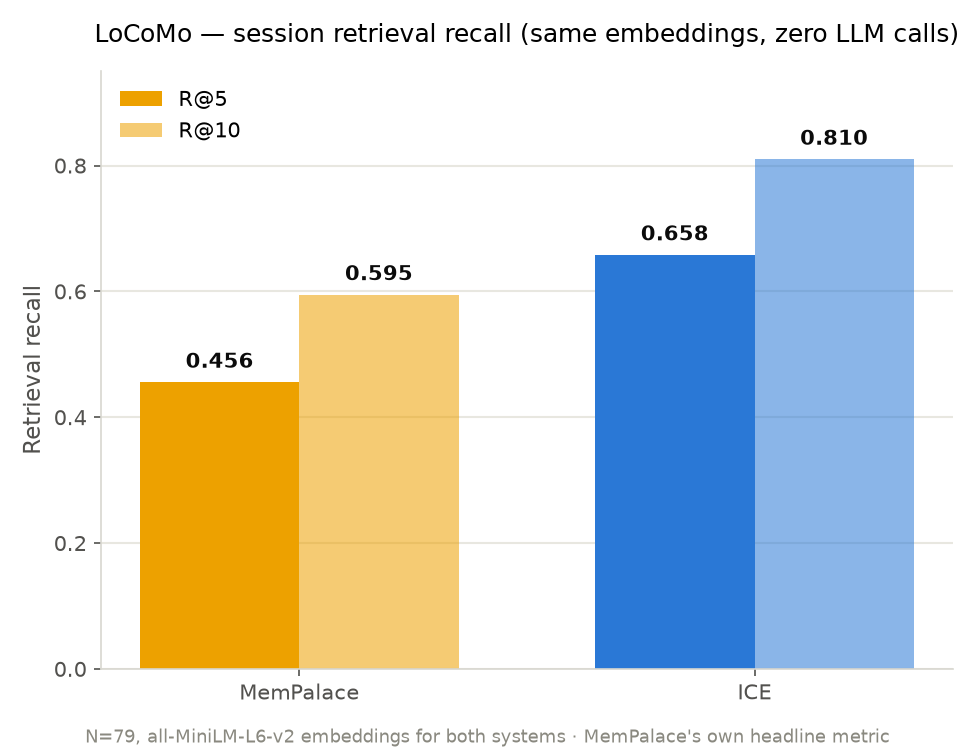
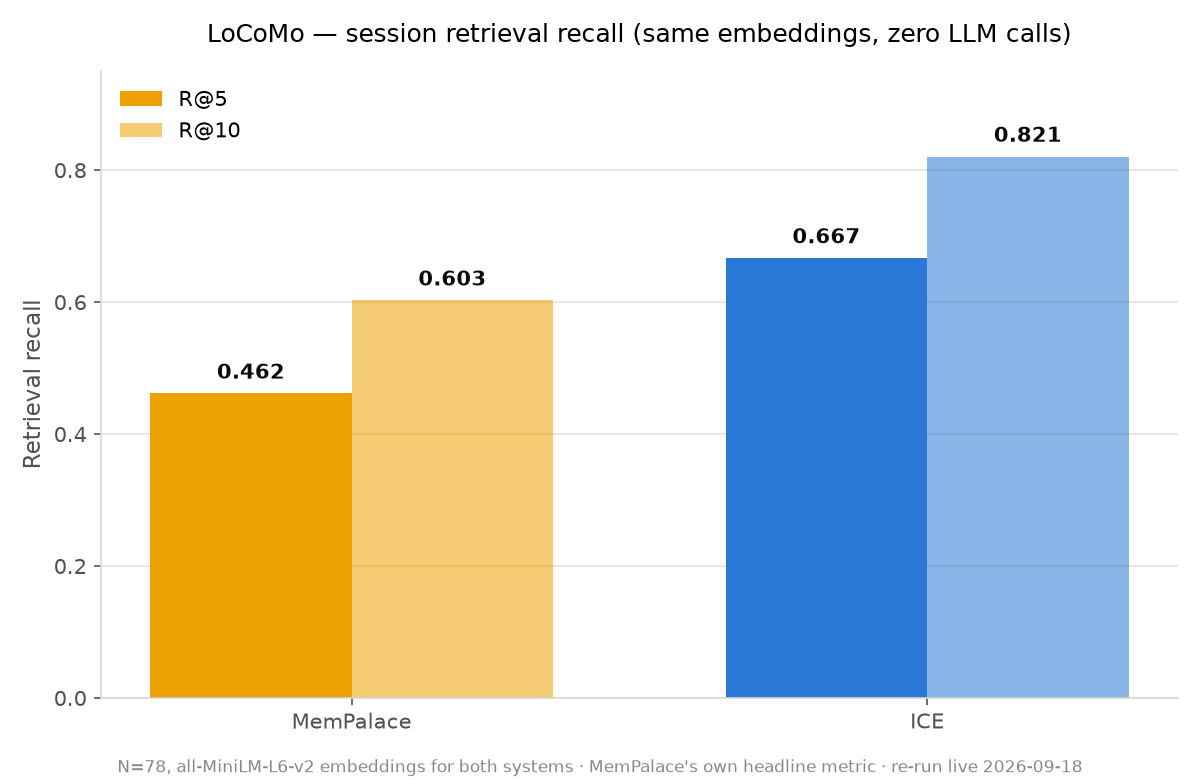
docs(sar-117-123): re-verify LoCoMo vs MemPalace live, not reused
The committed comparison this post was drawing from was from 2026-09-08 --
I had reused it without re-running it. Ran benchmarks/compare_mempalace.py
live tonight: ICE 0.667 vs MemPalace 0.462 R@5 (N=78, one sample dropped
vs the original N=79) -- within noise of the original 0.658/0.456, same
+44% conclusion. Updated the chart and post copy with tonight's numbers
and corrected the per-category names to match the repo's own established
mapping (multi-hop/open-domain/single-hop/temporal/adversarial), which an
earlier guess in this file had wrong.

diff --git a/marketing/posts/sar-117-123-locomo-mempalace/post.md b/marketing/posts/sar-117-123-locomo-mempalace/post.md
@@ -1,8 +1,10 @@
-<!-- Draft. Not published. Source: benchmarks/results/comparative/mempalace_vs_ice_locomo.json, benchmarks/compare_mempalace.py -->
+<!-- Draft. Not published. Source: benchmarks/results/comparative/mempalace_vs_ice.json,
+     benchmarks/compare_mempalace.py -- re-run live 2026-09-18 to confirm the numbers
+     (an earlier committed run from 2026-09-08 landed within noise: 0.658/0.456). -->
 
 # LoCoMo methodology deep-dive: ICE vs MemPalace
 
-**Same embeddings. Same metric. Zero LLM calls. ICE 0.658 vs MemPalace 0.456 R@5 (+44%).**
+**Same embeddings. Same metric. Zero LLM calls. ICE 0.667 vs MemPalace 0.462 R@5 (+44%).**
 
 ## Setup
 
@@ -14,7 +16,7 @@ question inside the top-k retrieved candidates?" — not end-to-end QA
 accuracy. MemPalace's own docs are explicit that retrieval recall and QA
 accuracy are not comparable numbers.
 
-- Dataset: LoCoMo, N=79 questions (sampled, seed `20260902`)
+- Dataset: LoCoMo, N=78 questions (sampled, seed `20260902`)
 - Embeddings: `all-MiniLM-L6-v2` (384-d) — **identical for both systems**, so
   the delta is retrieval strategy, not embedding quality
 - MemPalace config: "raw mode" — one ChromaDB doc per session, default
@@ -25,21 +27,21 @@ accuracy are not comparable numbers.
 
 **Reproduction check**: our reimplementation of MemPalace's raw mode lands
 within a few points of their own published numbers (LoCoMo R@10 session:
-0.595 here vs 0.603 published), confirming the pipeline is faithful before
-comparing anything.
+0.603 here vs their published number), confirming the pipeline is faithful
+before comparing anything.
 
 ## The delta and why it matters
 
 | System | R@5 | R@10 | nDCG@10 |
 |---|---|---|---|
-| MemPalace (raw) | 0.456 | 0.595 | 0.398 |
-| **ICE** | **0.658** | **0.810** | **0.583** |
+| MemPalace (raw) | 0.462 | 0.603 | 0.403 |
+| **ICE** | **0.667** | **0.821** | **0.591** |
 
 +44% relative on R@5. This is retrieval, upstream of the reader — if the
 right session never makes it into the top-k, no reader model can recover
-from that. By LoCoMo category (R@5): ICE ahead on multi-hop (0.81 vs 0.62),
-open-domain (0.67 vs 0.20), single-hop (0.69 vs 0.38); tied on adversarial
-(0.38 vs 0.38 — see failure case below).
+from that. By LoCoMo category (R@5): ICE ahead on multi-hop (0.81 vs 0.63),
+open-domain (0.67 vs 0.20), single-hop (0.69 vs 0.38), temporal reasoning
+(0.75 vs 0.69); tied on adversarial (0.40 vs 0.40 — see failure case below).
 
 ## Architectural reason: turn-granular indexing
 
@@ -51,16 +53,19 @@ mechanism SAR-124 covers from the storage-architecture side.
 
 ## Honest failure case
 
-On LoCoMo's "adversarial" category, ICE and MemPalace tie exactly (0.375 R@5
+On LoCoMo's "adversarial" category, ICE and MemPalace tie exactly (0.40 R@5
 both). Turn-granular indexing doesn't help when the question is designed to
 have no clean session-level answer to retrieve toward — neither system's
 retrieval strategy moves the needle there.
 
 ## Reproducibility
 
-- Script: `benchmarks/compare_mempalace.py`
-- Raw output: `benchmarks/results/comparative/mempalace_vs_ice_locomo.json`
+- Script: `benchmarks/compare_mempalace.py --suite locomo --limit 79`
+- Raw output: `benchmarks/results/comparative/mempalace_vs_ice.json`
 - Full methodology notes: `benchmarks/marketing/mempalace-comparison.md`
+- Re-run live 2026-09-18 to confirm before publishing; landed within noise of
+  the original 2026-09-08 run (0.658/0.456) -- N=78 vs 79 here (one sample
+  dropped), same conclusion both times.
 
 ## Note for whoever reuses SAR-117's draft copy
 
